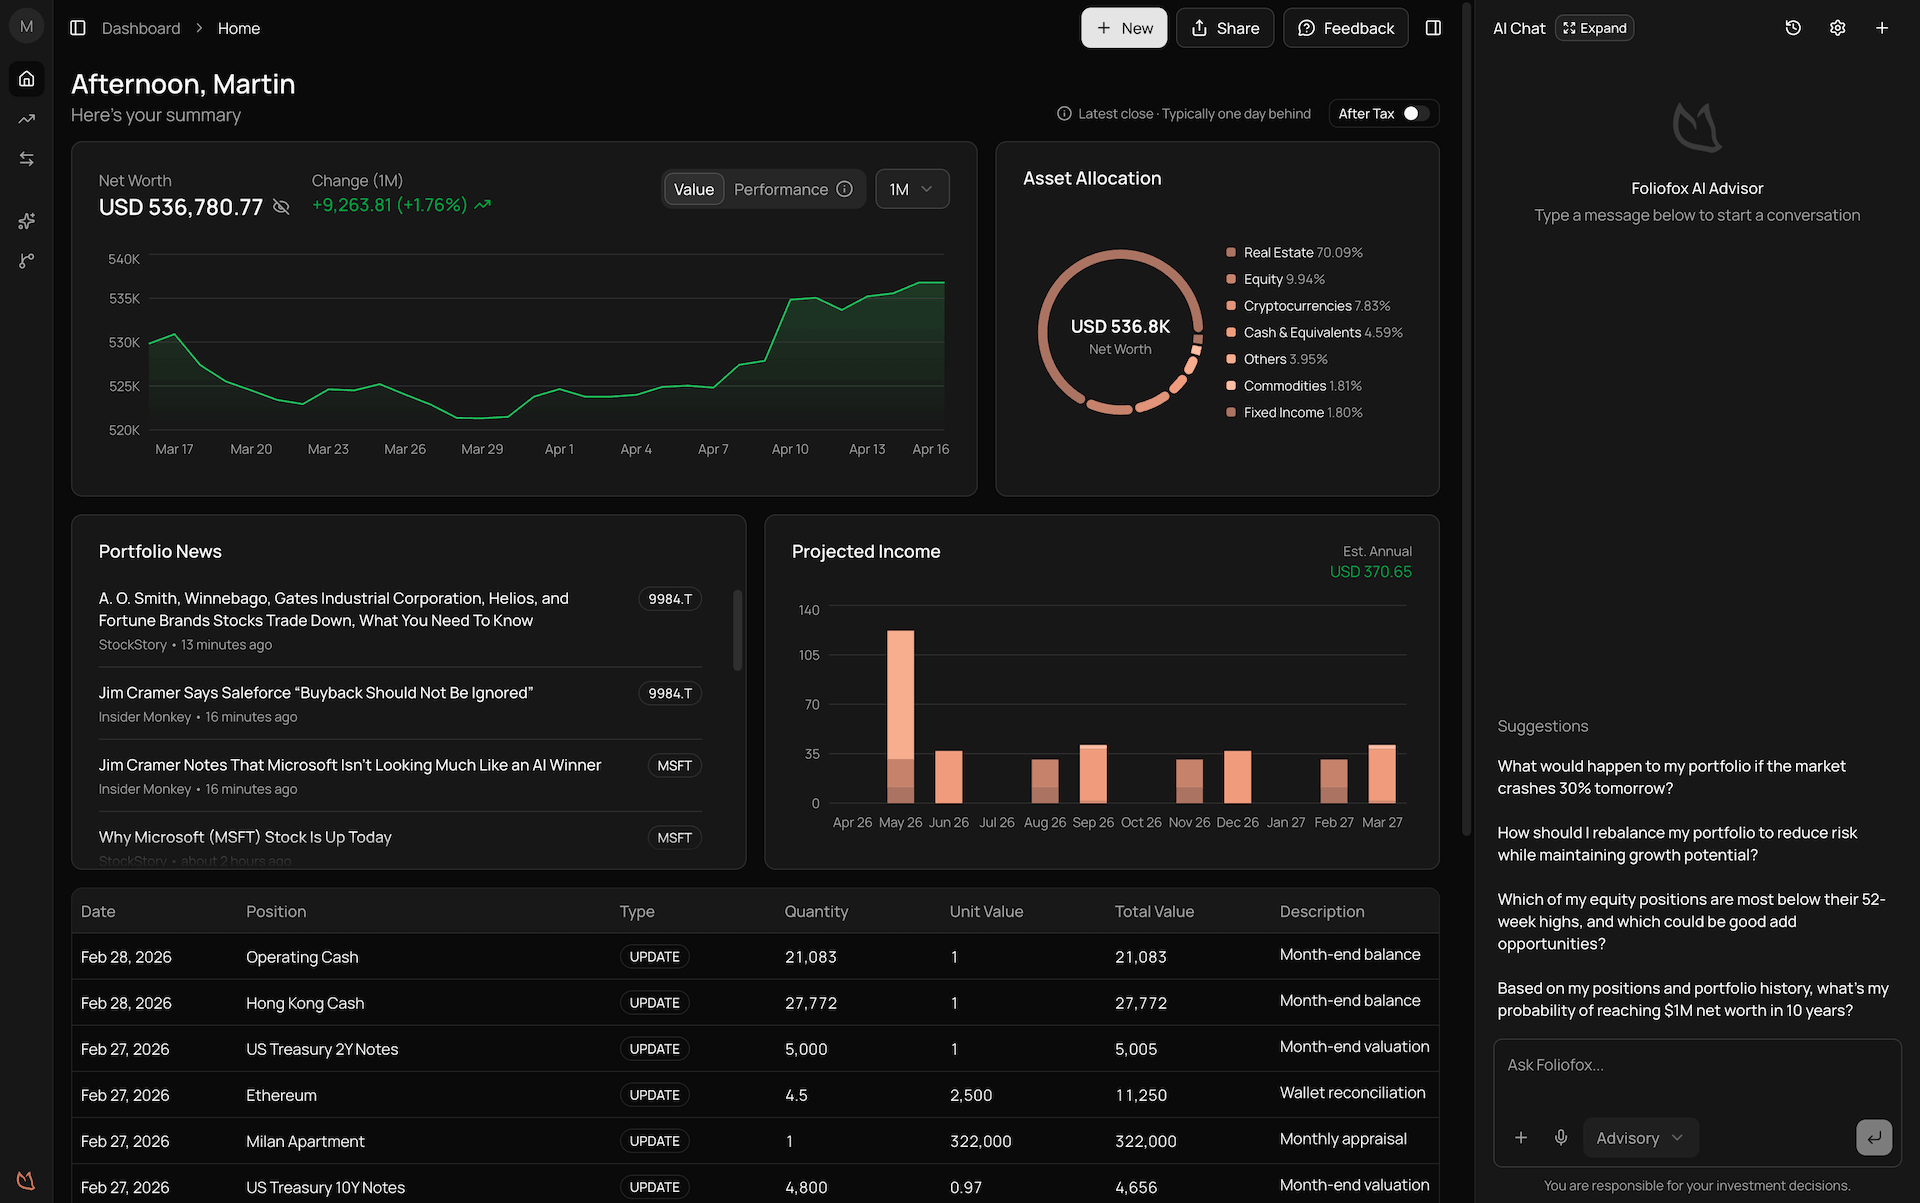
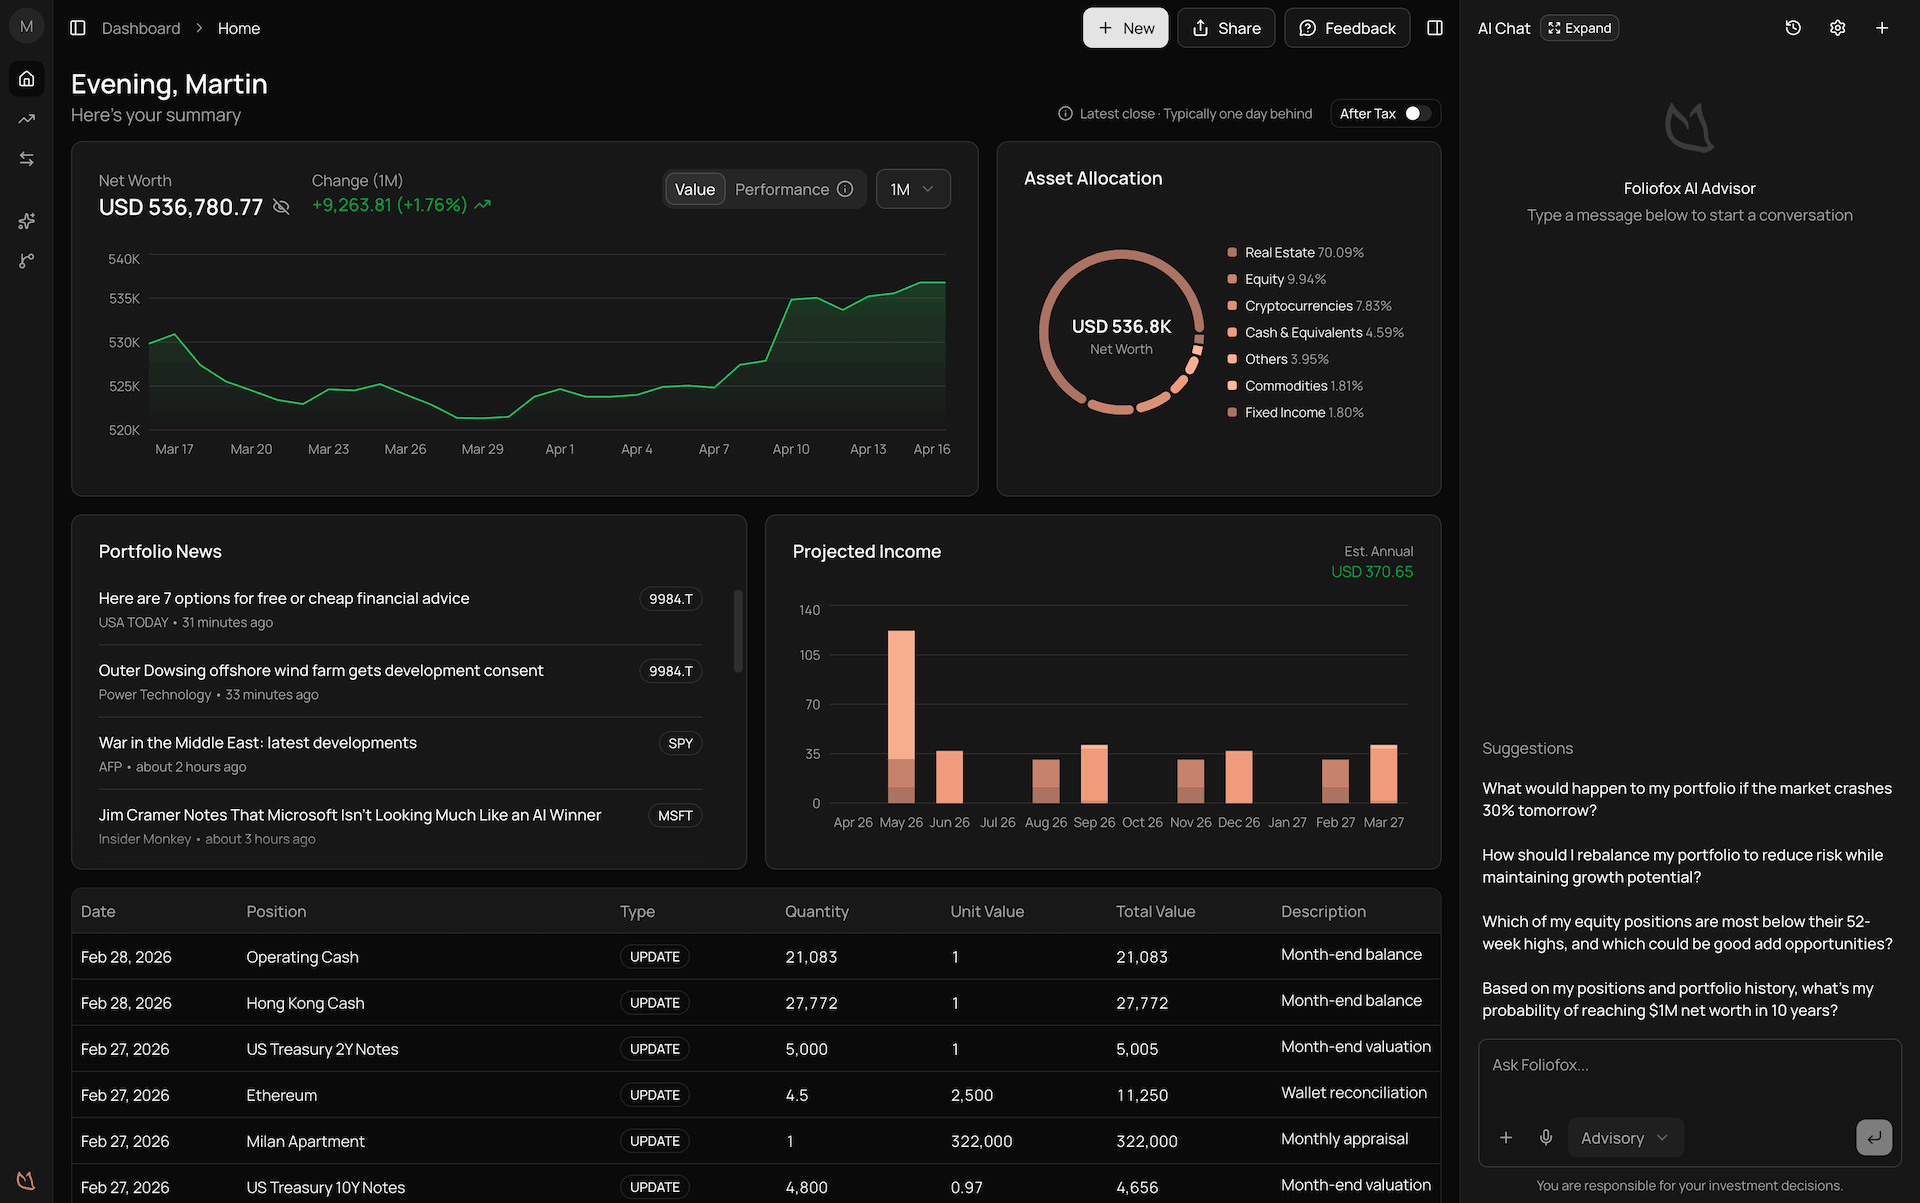
better hero images

diff --git a/types/database.types.ts b/types/database.types.ts
@@ -7,6 +7,11 @@ export type Json =
   | Json[]
 
 export type Database = {
+  // Allows to automatically instantiate createClient with right options
+  // instead of createClient<Database, { PostgrestVersion: 'XX' }>(URL, KEY)
+  __InternalSupabase: {
+    PostgrestVersion: "14.1"
+  }
   graphql_public: {
     Tables: {
       [_ in never]: never
@@ -1074,4 +1079,3 @@ export const Constants = {
     },
   },
 } as const
-